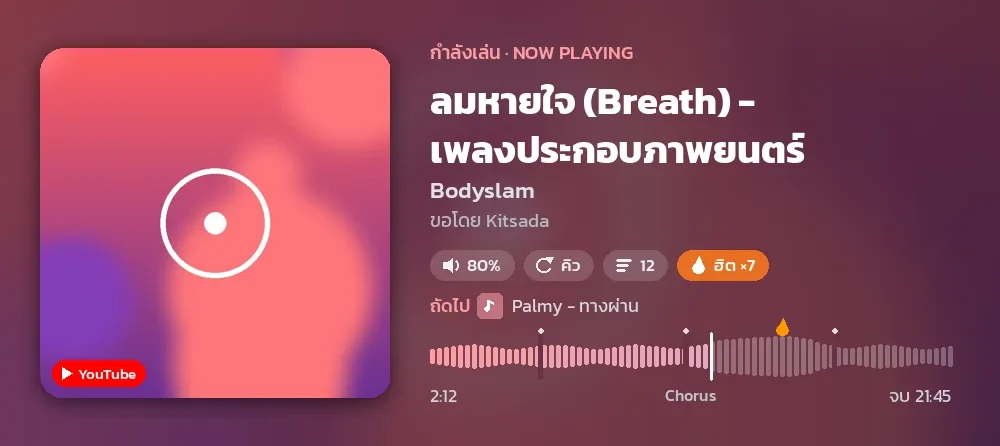
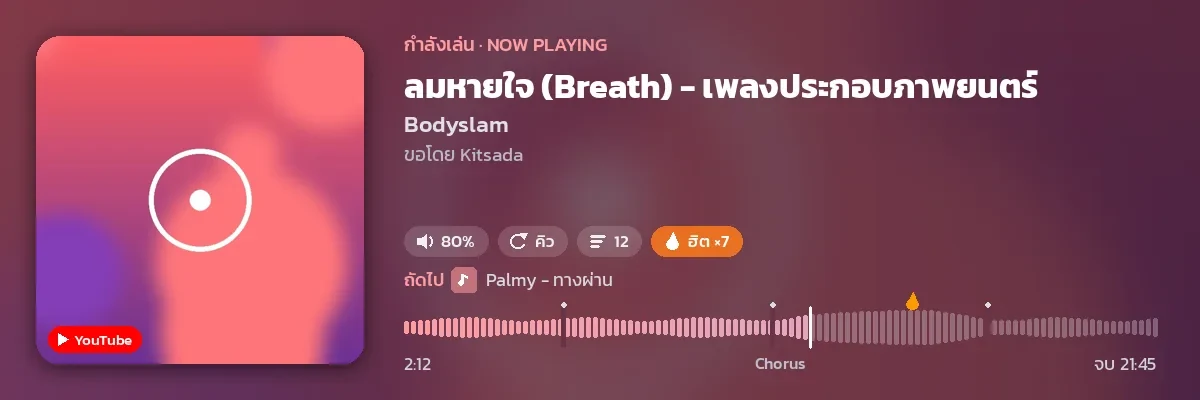
Back to the full panel; Groove-sized 3:1 card
- Revert the two-row panel and the ⚙ menu (096b38d): heading, title,
  time line, fields and the full button set are back.
- Wide card is now 1200x400 (3:1, the proportions of Groove's 780x260
  MusicCard) instead of 1000x446, so it takes about a third less height
  in the panel. Layout re-spaced to fit.
- README panel section and preview images updated.

Claude-Session: https://claude.ai/code/session_01KzkYBNzRvXCtkJPAwDqf7y

diff --git a/music-bot/core/ui.py b/music-bot/core/ui.py
@@ -77,22 +77,14 @@ def build_now_playing(p: "GuildPlayer", card: Optional[str] = None) -> discord.E
         e.set_author(name=state)
         return e
 
-    if has_card:
-        # The card already shows title, artist, requester, volume, progress and next:
-        # under it only a one-line clickable title, live lyrics if on, and the status line.
-        slim = discord.Embed(color=e.color)
-        title = t.title[:200]
-        link = f"[{title}]({t.url})" if t.url.startswith("http") else title
-        slim.description = f"{'⏸' if p.is_paused else '▶'} **{link}**"
-        slim.set_image(url=f"attachment://{card_name}")
-        if karaoke := live_lyrics_text(p):
-            slim.add_field(name="🎙 เนื้อเพลงสด", value=karaoke, inline=False)
-        slim.set_footer(text=status_line(p))
-        return slim
     e.set_author(name=state)
-    if t.thumbnail:
-        e.set_thumbnail(url=t.thumbnail)
-    e.description = artist + _time_line(p)
+    if has_card:  # the card already shows artist, progress and badges
+        e.set_image(url=f"attachment://{card_name}")
+        e.description = _time_line(p)
+    else:
+        if t.thumbnail:
+            e.set_thumbnail(url=t.thumbnail)
+        e.description = artist + _time_line(p)
     e.add_field(name="ขอโดย", value=t.requester_name or "-", inline=True)
     if p.queue:
         nxt = p.queue[0]
@@ -720,14 +712,14 @@ SEEK_STEP = 10  # seconds for the ⏪ ⏩ panel buttons
 
 
 class PanelView(discord.ui.View):
-    """Now-playing controls, two rows of icons like Groove. Persistent (fixed custom_id),
-    state-aware when given a player. Less used controls live behind ⚙ (MoreView)."""
+    """Now-playing controls. Persistent (fixed custom_id), state-aware when given a player."""
 
     def __init__(self, p: Optional["GuildPlayer"] = None):
         super().__init__(timeout=None)
         if p is None:
             return
         self.prev.disabled = not p.history
+        self.shuffle.disabled = len(p.queue) < 2
         self.queue_btn.disabled = not p.queue and not p.current
         if p.is_paused:
             self.pause.emoji = "▶"
@@ -735,133 +727,89 @@ class PanelView(discord.ui.View):
         if p.loop_mode != "off":
             self.loop.style = discord.ButtonStyle.primary
             self.loop.emoji = "🔂" if p.loop_mode == "track" else "🔁"
+        self.vol_down.disabled = p.volume <= 0
+        self.vol_up.disabled = p.volume >= 1.5
         seekable = bool(p.current and p.current.duration)
         self.rewind.disabled = self.forward.disabled = not seekable
+        self.lyrics_btn.disabled = self.live_lyrics_btn.disabled = not p.current
+        if p.live_lyrics:
+            self.live_lyrics_btn.style = discord.ButtonStyle.primary
         if not p.current:
-            self.pause.disabled = self.skip.disabled = True
+            for item in (self.pause, self.skip, self.vol_down, self.vol_up, self.volume_select):
+                item.disabled = True
+        current = int(round(p.volume * 100))
+        for opt in self.volume_select.options:
+            opt.default = int(opt.value) == current
 
-    # row 0: transport, row 1: seek / queue / add / more
+    # row 0: transport, row 1: queue and extras, row 2: add / volume / live lyrics,
+    # row 3: volume presets
     @discord.ui.button(emoji="⏮", style=discord.ButtonStyle.secondary, custom_id="mb:prev", row=0)
     async def prev(self, inter, _):
         await act_prev(inter)
+
+    @discord.ui.button(emoji="⏪", style=discord.ButtonStyle.secondary, custom_id="mb:rewind", row=0)
+    async def rewind(self, inter, _):
+        await act_seek(inter, -SEEK_STEP)
 
     @discord.ui.button(emoji="⏯", style=discord.ButtonStyle.secondary, custom_id="mb:pause", row=0)
     async def pause(self, inter, _):
         await act_pause(inter)
 
+    @discord.ui.button(emoji="⏩", style=discord.ButtonStyle.secondary, custom_id="mb:forward", row=0)
+    async def forward(self, inter, _):
+        await act_seek(inter, SEEK_STEP)
+
     @discord.ui.button(emoji="⏭", style=discord.ButtonStyle.secondary, custom_id="mb:skip", row=0)
     async def skip(self, inter, _):
         await act_skip(inter)
 
-    @discord.ui.button(emoji="⏹", style=discord.ButtonStyle.secondary, custom_id="mb:stop", row=0)
+    @discord.ui.button(emoji="⏹", style=discord.ButtonStyle.secondary, custom_id="mb:stop", row=1)
     async def stop_btn(self, inter, _):
         await act_stop(inter)
 
-    @discord.ui.button(emoji="🔁", style=discord.ButtonStyle.secondary, custom_id="mb:loop", row=0)
+    @discord.ui.button(emoji="🔁", style=discord.ButtonStyle.secondary, custom_id="mb:loop", row=1)
     async def loop(self, inter, _):
         await _act(inter, lambda p: f"วนซ้ำ: {LOOP_ICON[p.cycle_loop()]}", "loop")
 
-    @discord.ui.button(emoji="⏪", style=discord.ButtonStyle.secondary, custom_id="mb:rewind", row=1)
-    async def rewind(self, inter, _):
-        await act_seek(inter, -SEEK_STEP)
-
-    @discord.ui.button(emoji="⏩", style=discord.ButtonStyle.secondary, custom_id="mb:forward", row=1)
-    async def forward(self, inter, _):
-        await act_seek(inter, SEEK_STEP)
+    @discord.ui.button(emoji="🔀", style=discord.ButtonStyle.secondary, custom_id="mb:shuffle", row=1)
+    async def shuffle(self, inter, _):
+        await _act(inter, lambda p: (p.shuffle(), "🔀 สลับคิวแล้ว (ใช้ /undo เพื่อย้อน)")[1],
+                   "shuffle")
 
     @discord.ui.button(emoji="📜", style=discord.ButtonStyle.secondary, custom_id="mb:queue", row=1)
     async def queue_btn(self, inter, _):
         await act_queue(inter)
 
-    @discord.ui.button(emoji="➕", style=discord.ButtonStyle.secondary, custom_id="mb:add", row=1)
-    async def add_btn(self, inter, _):
-        await act_add(inter)
-
-    @discord.ui.button(emoji="⚙", style=discord.ButtonStyle.secondary, custom_id="mb:more", row=1)
-    async def more_btn(self, inter, _):
-        await act_more(inter)
-
-
-def build_more_embed(p: "GuildPlayer") -> discord.Embed:
-    e = discord.Embed(title="⚙ ตัวเลือกเพิ่มเติม", color=SOURCE_COLORS["other"])
-    e.description = status_line(p)
-    return e
-
-
-async def act_more(inter):
-    p = inter.client.players.get(inter.guild_id)
-    if not p or not p.current:
-        return await inter.response.send_message("ไม่มีเพลงเล่นอยู่", ephemeral=True)
-    await inter.response.send_message(embed=build_more_embed(p), view=MoreView(p), ephemeral=True)
-
-
-async def _more(inter, action: Callable[["GuildPlayer"], Optional[str]], label: str):
-    """Controls from the ⚙ menu. In the menu itself the menu refreshes in place; the same
-    custom_ids on an old panel (before the two-row layout) behave like panel buttons."""
-    message = getattr(inter, "message", None)
-    if not (message and message.flags.ephemeral):
-        return await _act(inter, action, label)
-    try:
-        p = control(inter)
-    except UserError as exc:
-        return await inter.response.send_message(str(exc), ephemeral=True)
-    text = action(p)
-    await inter.response.edit_message(content=text, embed=build_more_embed(p), view=MoreView(p))
-    await audit_inter(inter, label)
-    await p.update_panel()
-
-
-class MoreView(discord.ui.View):
-    """⚙ menu (only the person who pressed it sees it). Persistent so old panels that
-    still show these buttons keep working after a restart."""
-
-    def __init__(self, p: Optional["GuildPlayer"] = None):
-        super().__init__(timeout=None)
-        if p is None:
-            return
-        self.vol_down.disabled = p.volume <= 0
-        self.vol_up.disabled = p.volume >= 1.5
-        self.shuffle.disabled = len(p.queue) < 2
-        self.lyrics_btn.disabled = self.live_lyrics_btn.disabled = not p.current
-        if p.live_lyrics:
-            self.live_lyrics_btn.style = discord.ButtonStyle.primary
-        current = int(round(p.volume * 100))
-        for opt in self.volume_select.options:
-            opt.default = int(opt.value) == current
-
-    @discord.ui.button(emoji="🔉", label="-10", style=discord.ButtonStyle.secondary,
-                       custom_id="mb:voldown", row=0)
-    async def vol_down(self, inter, _):
-        await _more(inter, lambda p: (p.set_volume(int(p.volume * 100) - 10), None)[1], "volume -10")
-
-    @discord.ui.button(emoji="🔊", label="+10", style=discord.ButtonStyle.secondary,
-                       custom_id="mb:volup", row=0)
-    async def vol_up(self, inter, _):
-        await _more(inter, lambda p: (p.set_volume(int(p.volume * 100) + 10), None)[1], "volume +10")
-
-    @discord.ui.button(emoji="🔀", style=discord.ButtonStyle.secondary, custom_id="mb:shuffle", row=0)
-    async def shuffle(self, inter, _):
-        await _more(inter, lambda p: (p.shuffle(), "🔀 สลับคิวแล้ว (ใช้ /undo เพื่อย้อน)")[1],
-                    "shuffle")
-
-    @discord.ui.button(emoji="🎤", style=discord.ButtonStyle.secondary, custom_id="mb:lyrics", row=0)
+    @discord.ui.button(emoji="🎤", style=discord.ButtonStyle.secondary, custom_id="mb:lyrics", row=1)
     async def lyrics_btn(self, inter, _):
         await act_lyrics(inter)
 
-    @discord.ui.button(emoji="🎙", style=discord.ButtonStyle.secondary, custom_id="mb:livelyrics",
-                       row=0)
-    async def live_lyrics_btn(self, inter, _):
-        def run(p):
-            on = p.toggle_live_lyrics()
-            return "🎙 เปิดเนื้อเพลงสดบน panel" if on else "ปิดเนื้อเพลงสดแล้ว"
-        await _more(inter, run, "live lyrics")
+    @discord.ui.button(emoji="➕", label="เพิ่มเพลง", style=discord.ButtonStyle.secondary,
+                       custom_id="mb:add", row=2)
+    async def add_btn(self, inter, _):
+        await act_add(inter)
 
-    @discord.ui.select(placeholder="🔊 ระดับเสียง", custom_id="mb:volpreset", row=1,
+    @discord.ui.button(emoji="🔉", label="-10", style=discord.ButtonStyle.secondary,
+                       custom_id="mb:voldown", row=2)
+    async def vol_down(self, inter, _):
+        await _act(inter, lambda p: (p.set_volume(int(p.volume * 100) - 10), None)[1], "volume -10")
+
+    @discord.ui.button(emoji="🔊", label="+10", style=discord.ButtonStyle.secondary,
+                       custom_id="mb:volup", row=2)
+    async def vol_up(self, inter, _):
+        await _act(inter, lambda p: (p.set_volume(int(p.volume * 100) + 10), None)[1], "volume +10")
+
+    @discord.ui.button(emoji="🎙", label="เนื้อสด", style=discord.ButtonStyle.secondary,
+                       custom_id="mb:livelyrics", row=2)
+    async def live_lyrics_btn(self, inter, _):
+        await act_live_lyrics(inter)
+
+    @discord.ui.select(placeholder="🔊 ระดับเสียง", custom_id="mb:volpreset", row=3,
                        options=[discord.SelectOption(label=f"{v}%", value=str(v))
                                 for v in VOLUME_PRESETS])
     async def volume_select(self, inter, select: discord.ui.Select):
         value = int(select.values[0])
-        await _more(inter, lambda p: (p.set_volume(value), None)[1], f"volume {value}")
+        await _act(inter, lambda p: (p.set_volume(value), None)[1], f"volume {value}")
 
 
 class CompactPanelView(discord.ui.View):

diff --git a/music-bot/core/card.py b/music-bot/core/card.py
@@ -87,9 +87,10 @@ class Geo:
     time_y: int
 
 
-WIDE = Geo(w=1000, h=446, art=350, art_x=40, art_y=48, x0=430, max_w=530, center=False,
-           label_y=40, title_y=72, title_size=38, chips_y=250, next_y=292,
-           wave_y=336, wave_h=40, time_y=382)
+# 3:1 like Groove's MusicCard (780x260), drawn larger so it stays sharp.
+WIDE = Geo(w=1200, h=400, art=328, art_x=36, art_y=36, x0=404, max_w=756, center=False,
+           label_y=32, title_y=60, title_size=34, chips_y=226, next_y=266,
+           wave_y=310, wave_h=34, time_y=350)
 # Square flows below the text and is cropped to its content (see _flow).
 SQUARE = Geo(w=640, h=820, art=300, art_x=170, art_y=36, x0=40, max_w=560, center=True,
              label_y=352, title_y=384, title_size=32, chips_y=0, next_y=0,

diff --git a/music-bot/bot.py b/music-bot/bot.py
@@ -21,7 +21,7 @@ from core import card, clean, lyrics
 from core.db import Database
 from core.player import GuildPlayer
 from core.sources import spotify
-from core.ui import CompactPanelView, MoreView, PanelView
+from core.ui import CompactPanelView, PanelView
 
 logging.basicConfig(
     level=logging.INFO,
@@ -62,7 +62,6 @@ class MusicBot(commands.Bot):
         self.panel_view = PanelView()
         self.add_view(self.panel_view)  # buttons keep working after restart
         self.add_view(CompactPanelView())
-        self.add_view(MoreView())
         for ext in EXTENSIONS:
             await self.load_extension(ext)
         self.tree.on_error = self.on_app_error

diff --git a/README.md b/README.md
@@ -66,13 +66,15 @@
 
 ### 🎛 Panel และหน้าตา
 - ทุกข้อความเป็น **กล่องเดียวแบบ Components V2** (สไตล์ Groove) หรือใช้ embed แบบเดิมได้ด้วย `UI_STYLE=classic`
-- Panel กระชับ: การ์ด, ชื่อเพลงบรรทัดเดียว, ปุ่มไอคอน 2 แถว และบรรทัดสถานะเล็กที่บอกโหมดที่เปิดอยู่
+- Panel: การ์ดสัดส่วน 3:1 แบบ Groove, ชื่อเพลงพร้อมแถบเวลา, ปุ่มควบคุมครบชุด และบรรทัดสถานะเล็กที่บอกโหมดที่เปิดอยู่
   ```
-  ⏮  ⏯  ⏭  ⏹  🔁
-  ⏪  ⏩  📜  ➕  ⚙
+  ⏮  ⏪  ⏯  ⏩  ⏭
+  ⏹  🔁  🔀  📜  🎤
+  ➕ เพิ่มเพลง   🔉 -10   🔊 +10   🎙 เนื้อสด
+  [ 🔊 ระดับเสียง ▾ ]
   -# 🔁 วนทั้งคิว · 🔊 80% · 🎙 เนื้อสด · 🎚 ความดังเท่ากัน
   ```
-- ➕ เพิ่มเพลงผ่านหน้าต่างโดยไม่ต้องพิมพ์คำสั่ง, ⚙ เมนูส่วนตัวสำหรับเสียง, สลับคิว และเนื้อเพลง
+- ➕ เพิ่มเพลงผ่านหน้าต่างโดยไม่ต้องพิมพ์คำสั่ง, 🎤 เนื้อเพลง และ 🎙 เนื้อเพลงสดบน panel
 - **หน้าคิว**: แต่ละเพลงเป็นแถวพร้อมปก เลือกได้หลายเพลง สั่งเล่นเลย / ขึ้นถัดไป / ลบได้ ค้นในคิว ลบเพลงของฉัน ลบเพลงซ้ำ และสร้างรูปคิว
 - ปุ่มยังกดได้หลังบอทรีสตาร์ท มีโหมด compact สำหรับมือถือ และสถานะห้องเสียงแสดงชื่อเพลง
 
